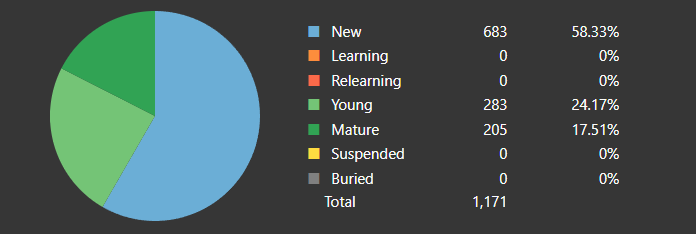
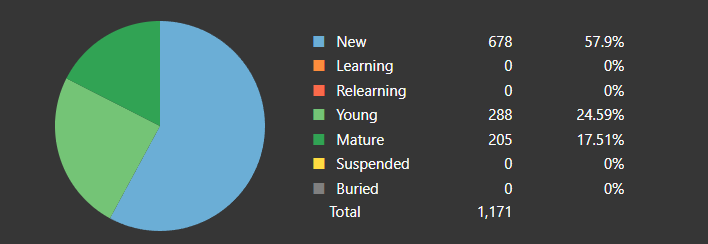
Updating card counts and fixing image links
Grammar review so no new grammar points for now

diff --git a/docs/index.md b/docs/index.md
@@ -6,20 +6,23 @@ At some point, I do plan on scripting this out. But for now, I'll just update it
 
 ### Card Counts
 
+!!! info "Current Daily New Card Count"
+    Will do **15 cards** a day for now. Might do 20 in the future, but 15 seems like a sweet spot for me.
+
 #### Tango N5 as of _10/13/2023_ 
 
-**473** Vocabulary words known: On track to finish December 23rd doing 10 new cards a day.
-
-!!! info "Something to think about"
-    If I were to jump to 20 new cards a day, I would finish this deck on November 18th. This means a couple of things:
-    
-    - It would take around an hour to complete my anki reviews and new cards every day (which isn't too bad)
-    - This would also mean I would need to move my grammar study to a different part of the day.
-        - Maybe during lunch? Although I like to watch anime or read manga during lunch. 
-    
-    So I guess it's something to think about. I honestly want to focus on reviewing grammar points for longer periods of time anyways so I think 20 cards a day would be fine. I can always take a day or two to just do reviews if I'm struggling (like with the places kanji I was struggling with). Will think it over.
+**493** Vocabulary words known: On track to finish all new cards on **_November 29th_** with my current daily card amount.
 
 ![Card Counts](./assets/anki-stats/card-counts.png){ align=center }
+
+!!! info "End dates with various daily card amounts"
+    > "End date" refers to the day where I have no **new** cards. I will still review after this period.
+
+    As I was curious, here are the end dates with different daily new card amounts:
+    
+    - **10 New Cards Daily**: _December 23rd_
+    - **15 New Cards Daily**: _November 29th_ → _My current planned end date_
+    - **20 New Cards Daily**: _November 18th_
 
 ## Things I need to work on currently
 
